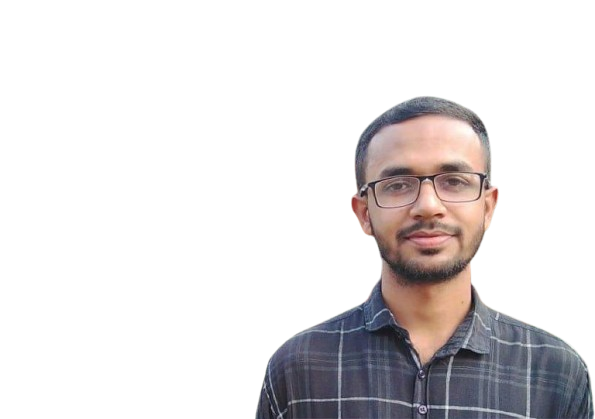
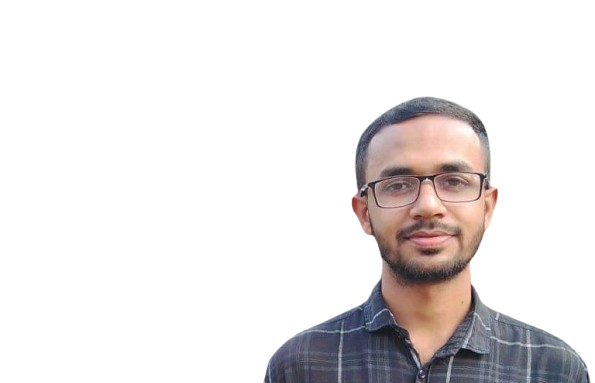
Updated colors, some styles and looking

Changed region(s): [[0.4235, 0.2298, 0.9983, 1.0]]

diff --git a/style.css b/style.css
@@ -3,6 +3,7 @@
   padding: 0;
   font-family: "Poppins", sans-serif;
   box-sizing: border-box;
+ 
 }
 html {
   scroll-behavior: smooth;
@@ -19,7 +20,7 @@ p {
 #header {
   width: 100%;
   height: 100vh;
-  background-image: url(images/nasir_curjon-Photoroom.png);
+  background-image: url(images/nasir_curjon_vertical-Photoroom_v2.png);
   background-size: cover;
   background-position: center;
 }
@@ -37,8 +38,8 @@ nav {
 }
 nav ul li {
   display: inline-block;
-  list-style: none;
-  margin: 10px 20px;
+  list-style:none;
+  margin: 10px 15px;
 }
 nav ul li a {
   color: #fff;
@@ -50,7 +51,7 @@ nav ul li a::after {
   content: "";
   width: 0px;
   height: 3px;
-  background: #ff00ff;
+  background: #878a04;
   position: absolute;
   left: 0;
   bottom: -6px;
@@ -68,7 +69,7 @@ nav ul li a:hover::after {
   margin-top: 20px;
 }
 .header-text h1 span {
-  color: #ff004f;
+  color: #a19f05;
 }
 /*------------about--------*/
 #about {
@@ -113,7 +114,7 @@ nav ul li a:hover::after {
   content: "";
   width: 0;
   height: 3px;
-  background: #ff004f;
+  background: #b4b107;
   position: absolute;
   left: 0;
   bottom: -8px;
@@ -128,7 +129,7 @@ nav ul li a:hover::after {
   font-size: 12px;
 }
 .tab-contents ul li span {
-  color: #b54769;
+  color: #a1ac07;
   font-size: 14px;
 }
 .tab-contents {
@@ -139,6 +140,7 @@ nav ul li a:hover::after {
 }
 /* --------------services------------ */
 #services {
+ 
   padding: 30px 0;
   padding-bottom: 0px;
 }
@@ -149,7 +151,7 @@ nav ul li a:hover::after {
   margin-top: 50px;
 }
 .services-list div {
-  background: #262626;
+  background: #705757;
   padding: 40px;
   font-size: 13px;
   font-weight: 300;
@@ -174,13 +176,26 @@ nav ul li a:hover::after {
 
 .services-list div a {
   text-decoration: none;
+  
   color: #fff;
   font-size: 12px;
   margin-top: 20px;
   display: inline-block;
 }
+.service-btn{
+  border: #0dcc1d;
+  width: 100px;
+  height: 26px;
+  cursor: pointer;
+  color: white;
+  border-radius: 5px;
+  background-color: rgb(55, 60, 153);
+}
+.btn{
+  padding-top: 100px;
+}
 .services-list div:hover {
-  background: #7a1a3a;
+  background: #8b8d06;
   transform: translateY(-10px);
 }
 /* -----------Work--------- */
@@ -196,7 +211,7 @@ nav ul li a:hover::after {
 .Work {
   border-radius: 10px;
   position: relative;
-  overflow: hidden;
+  /* overflow: hidden; */
 }
 .Work img {
   width: 100%;
@@ -210,7 +225,7 @@ nav ul li a:hover::after {
 .layer {
   width: 100%;
   height: 0;
-  background: linear-gradient(rgba(0, 0, 0, 0.6), #ff004f);
+  background: linear-gradient(rgba(0, 0, 0, 0.6), #8da507);
   border-radius: 10px;
   position: absolute;
   left: 0;
@@ -231,7 +246,7 @@ nav ul li a:hover::after {
 }
 .layer a {
   margin-top: 20px;
-  color: #ff004f;
+  color: #a39904;
   text-decoration: none;
   font-size: 18px;
   line-height: 60px;
@@ -249,7 +264,7 @@ nav ul li a:hover::after {
   margin: 20px auto;
   margin-bottom: 50px;
   width: fit-content;
-  border: 1px solid #ff004f;
+  border: 1px solid #0dcc1d;
   padding: 14px 50px;
   border-radius: 6px;
   text-decoration: none;
@@ -257,13 +272,16 @@ nav ul li a:hover::after {
   transition: background 0.5s;
 }
 .btn:hover {
-  background: #7e2e47;
+  background: #6c7403;
 }
+
+
 /* --------contact------------ */
-/* .contact{
-    margin-bottom: 0px;
-    padding-bottom: 0px;
-} */
+
+
+#contact{
+    margin-top: 50px;
+}
 .contact-left {
   flex-basis: 35%;
 }
@@ -274,8 +292,9 @@ nav ul li a:hover::after {
   margin-top: 30px;
 }
 .contact-left p i {
-  color: #ff004f;
+  color: #768a04;
   margin-right: 15px;
+
   font-size: 25px;
 }
 .social-icons {
@@ -285,17 +304,20 @@ nav ul li a:hover::after {
   text-decoration: none;
   font-size: 30px;
   margin-right: 15px;
-  color: #ababab;
+  color: #736be0;
   display: inline-block;
   transition: transform 0.5s;
 }
 .social-icons a:hover {
-  color: #ff004f;
+  color: #8fad05;
   transform: translateY(-5px);
 }
 .btn.btn2 {
   display: inline-block;
-  background: #2b0c16;
+  background: #333b6b;
+}
+.btn.btn2:hover{
+  background-color: rgb(96, 153, 5);
 }
 .contact-right form {
   width: 100%;
@@ -313,9 +335,13 @@ form textarea {
   border-radius: 6px;
 }
 form btn2 {
+  cursor: pointer;
   padding: 14px 60px;
   font-size: 18px;
   margin-top: 20px;
+  
+}
+button.btn.btn2{
   cursor: pointer;
 }
 .copyright {
@@ -327,19 +353,19 @@ form btn2 {
   margin-top: 20px;
 }
 .copyright i {
-  color: #ff004f;
+  color: #3ca500;
 }
 
 nav .fa-solid {
   display: none;
 }
 /* ---------------------css for small screen , responsiveness----- */
-@media only screen and (max-width: 600px) {
+@media only screen and (max-width: 700px) {
   #header {
     background-image: url(images/nasir_curjon_vertical-Photoroom.png);
   }
   .header-text {
-    margin-top: 65%;
+    margin-top:50%;
     font-size: 16px;
   }
   .header-text h1 {
@@ -348,9 +374,10 @@ nav .fa-solid {
   nav .fa-solid {
     display: block;
     font-size: 25px;
+    cursor: pointer;
   }
   nav ul {
-    background: #ff004f;
+    background: #5e5f02;
     position: fixed;
     top: 0;
     right: -200px;

diff --git a/index.html b/index.html
@@ -42,9 +42,7 @@
                 <div class="about-col-2">
                     <h1 class="sub-title">About Me</h1>
                     <p>
-                        I am Nasir Uddin, a motivated and ambitious Software Engineering student at the University of Dhaka.
-                        My leadership roles as the Organizing Secretary of the IIT Software Engineers’ Community and IIT Debating Club. Academic Team Member of Bangladesh Mathematics Olympiads.
-                        Committed to continuous growth and learning, I aim to contribute to impactful software solutions and engage in meaningful collaborations.
+                        I am Nasir Uddin, a motivated and ambitious Software Engineering student at the University of Dhaka. My leadership roles as the Organizing Secretary of the IIT Software Engineers’ Community and IIT Debating Club. Academic Team Member of Bangladesh Mathematics Olympiads. Committed to continuous growth and learning, I aim to contribute to impactful software solutions and engage in meaningful collaborations.
                     </p>
                     <div class="tab-titles">
                         <div class="tab-links active-link" onclick="opentab('skills')">Skills</div>
@@ -74,7 +72,6 @@
                             
                         </ul>
                     </div>
-                    
                     <div class="tab-contents" id="education">
                         <ul>
                             <li><span>University of Dhaka</span><br>Bachelor of Science in Software Engineering(2020 - Present)<br>CGPA: 3.57 (Out of 4:00)</li>
@@ -88,7 +85,7 @@
         </div>
     </div>
     <!-- --------------services--------------- -->
-    <d iv id="services">
+    <div id="services">
         <div class="container">
             <h1 class="sub-title">My Services</h1>
             <div class="services-list">
@@ -96,13 +93,13 @@
                     <i class="fa-solid fa-code"></i>
                     <h2>Front-end Development</h2>
                     <p>"I am a front-end developer specializing in creating responsive, interactive user interfaces using HTML, CSS, JavaScript, and React.js. I focus on building reusable components, optimizing performance, and integrating APIs for dynamic content."</p>
-                    <a href="#contact">Contact Me</a>
+                    <a href="#contact"><button class="service-btn">Contact Me</button></a>
                 </div>
                 <div>
                     <i class="fa-solid fa-crop"></i>
                     <h2>Backend Development</h2>
                     <p>"I am a backend developer skilled in building robust and scalable server-side applications using technologies like Node.js, Express.js, and MongoDB. I specialize in designing APIs, managing databases, and ensuring secure, efficient communication between the frontend and backend systems."</p>
-                    <a href="#contact">Contact Me</a>
+                    <a href="#contact"><button class="service-btn">Contact Me</button></a>
                 </div>
                 
                 
@@ -110,7 +107,7 @@
                     <i class="fa-brands fa-app-store"></i>
                     <h2>Full-Stack Development</h2>
                     <p>"I am a full-stack developer proficient in building end-to-end web applications, combining front-end technologies like React.js with backend frameworks like Node.js and Express.js. I specialize in designing responsive user interfaces, developing robust APIs, managing databases like MongoDB, and ensuring seamless integration between client and server."</p>
-                    <a href="#contact">Contact Me</a>
+                    <a href="#contact"><button class="service-btn">Contact Me</button></a>
                 </div>
             </div>
         </di>
@@ -145,7 +142,7 @@
                     </div>
                 </div>
             </div>
-            <a href="#" class="btn">See more</a>
+            <!-- <a href="#" class="btn">See more</a> -->
         </div>
      </div>
 
@@ -172,7 +169,7 @@
                         <textarea name="Message" rows="6" placeholder="Your Message"></textarea>
                         <button class="btn btn2" type="submit">Submit</button>
                     </form>
-                    <p id="msg"></p>
+                    <!-- <p id="msg"></p> -->
                 </div>
             </div>
         </div>
